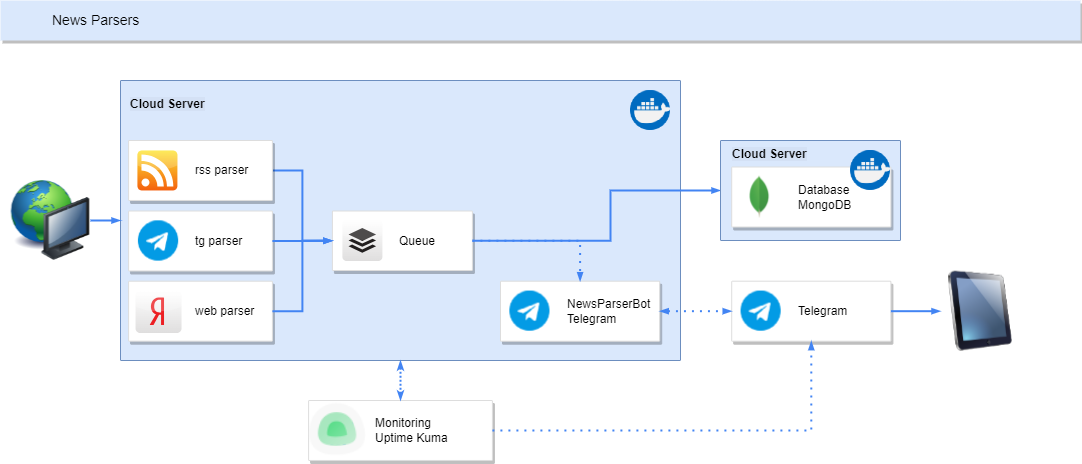
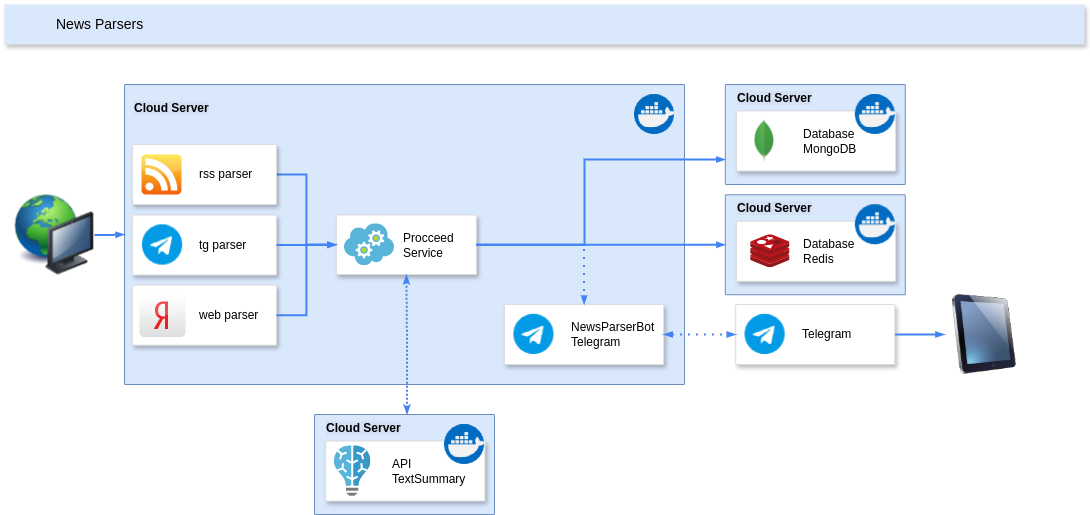
add pages for sub projects and update some views

Changed region(s): [[0.0, 0.1509, 0.854, 1.0], [0.0, 0.0, 1.0, 0.0905], [0.8235, 0.5733, 0.9455, 0.7543]]

diff --git a/app/templates/trade4me.html b/app/templates/trade4me.html
@@ -72,56 +72,53 @@ Read about project, maybe pick up a tip or two. Nothing too fancy.">
         </div>
     </div>
 </div>
-<!-- <div class="section section-sm bg-gray-100">
-    <div class="container">
-        <div class="row justify-content-center">
-            <div class="col-12 col-lg-12 text-center">
-                <h2 class="display-3 mb-4">Global Macro level</h2>
-            </div>
-        </div>
-        <div class="row justify-content-center mt-6">
-            <div class="row justify-content-center">
-            </div>
-        </div>
-    </div>
-</div>
-<div class="section section-sm bg-primary-app">
-    <div class="container">
-        <div class="row justify-content-center">
-            <div class="col-12 col-lg-12 text-center">
-                <h2 class="display-3 mb-4">Company level</h2>
-            </div>
-        </div>
-        <div class="row justify-content-center mt-6">
-            <div class="row justify-content-center">
-            </div>
-        </div>
-    </div>
-</div> -->
 <div class="section section-sm bg-gray-200">
     <div class="container">
-        <div class="row align-items-center justify-content-around">
-            <div class="row justify-content-center">
-                <div class="col-12 col-lg-12 text-center mb-3">
-                    <h2 class="display-3 mb-3"> Daily-trading level </h2>
-                    <p class="lead"></p>
+        <div class="row justify-content-center">
+            <div class="col-12 col-lg-12 text-center mb-3">
+                <h2 class="display-3 mb-3"> Daily-trading level </h2>
+                <p class="lead"></p>
+            </div>
+        
+            <div class="container">
+                <div class="row align-items-center justify-content-around">
+                    <div class="col-md-6 text-center text-md-left mb-3">
+                        <h4 class="mb-3">News Parser 
+                            <a href="https://github.com/whoknowswhocares/NewsParser" target="_blank" aria-label="github social link" class="icon-github me-3">
+                                <span class="fab fa-github"></span>
+                            </a>
+                        </h4>
+                        <p> Daily News for intraday trading - collected info for fast decision-making. 
+                            From various source get text info, store it, then using ML get summary and sentiment analysis.
+                            Based on user preferences sort all news and send as telegram notification only top of the list.
+                        </p>
+                    </div>
+                    <div class="col-md-6 mb-3">
+                        <div class="card-body border-gray-300">
+                            <img src="../static/assets/images/trade4me/Architecture-NewsParser_dark.png" class="card-img-top zoomable" alt="News Parser scheme">
+                        </div>
+                    </div>
                 </div>
             </div>
-            <!-- <div class="col-md-12 col-xl-12 text-center text-md-left"> -->
-            <div class="col-md-6 text-center text-md-left mb-3">
-                <h4 class="mb-3">News Parser 
-                    <a href="https://github.com/whoknowswhocares/NewsParser" target="_blank" aria-label="github social link" class="icon-github me-3">
-                        <span class="fab fa-github"></span>
-                    </a>
-                </h4>
-                <p> Daily News for intraday trading - collected info for fast decision-making. 
-                    From various source get text info, store it, then using ML get summary and sentiment analysis.
-                    Based on user preferences sort all news and send as telegram notification only top of the list.
-                </p>
-            </div>
-            <div class="col-md-6 mb-3">
-                <div class="card-body border-gray-300">
-                    <img src="../static/assets/images/trade4me/Architecture-NewsParser_dark.png" class="card-img-top" alt="News Parser scheme">
+            <div class="container">
+                <div class="row align-items-center justify-content-around">
+                    <div class="col-md-6 text-center text-md-left mb-3">
+                        <h4 class="mb-3">
+                            <a href="{{ url_for('main.textsummary') }}">TextSummary</a>
+                            <a href="https://github.com/WhoKnowsWhoCares/Huggingface_TextSummary" target="_blank" aria-label="github social link" class="icon-github me-3">
+                                <span class="fab fa-github"></span>
+                            </a>
+                        </h4>
+                        <p> Dedicated service for Summarization and Sentiment of the text. For it I use dockerized FastAPI server with simple Gradio interface.
+                            Additionaly there are lazy loading for ML models to release resources and verification to prevent bots from constantly use this service.
+                            API available through base authentication.
+                        </p>
+                    </div>
+                    <div class="col-md-6 mb-3">
+                        <div class="card-body border-gray-300">
+                            <img src="../static/assets/images/trade4me/textsummary.png" class="card-img-top rounded zoomable" alt="Text Summary interface">
+                        </div>
+                    </div>
                 </div>
             </div>
         </div>

diff --git a/app/templates/components/_header.html b/app/templates/components/_header.html
@@ -38,10 +38,11 @@
                             Projects
                             <span class="fas fa-angle-down nav-link-arrow ms-1"></span>
                         </a>
-                        <div class="dropdown-menu dropdown-megamenu-lg" aria-labelledby="componentsDropdown">
-                            <div class="row g-0">
-                                <div class="col ps-0 py-3">
-                                    <ul class="list-style-none">
+                        <div class="dropdown-menu dropdown-megamenu-sm px-0 p-lg-4" aria-labelledby="componentsDropdown">
+                            <div class="row">
+                                <div class="col-6">
+                                    <h6 class="d-block mb-3 text-primary">Global</h6>
+                                    <ul class="list-style-none mb-0">
                                         <li class="mb-2 megamenu-item">
                                             <a class="dropdown-item" href="{{ url_for('main.ihome') }}">iHome</a>
                                         </li>
@@ -51,6 +52,20 @@
                                         <li class="mb-2 megamenu-item">
                                             <a class="dropdown-item" href="{{ url_for('main.trade4me') }}">Trade4Me</a>
                                         </li>
+                                    </ul>
+                                </div>
+                                <div class="col-6">
+                                    <h6 class="d-block mb-3 text-primary">Sub</h6>
+                                    <ul class="list-style-none mb-0">
+                                        <!-- <li class="mb-2 megamenu-item">
+                                            <a class="dropdown-item" href="{{ url_for('main.newsparser') }}">NewsParser</a>
+                                        </li> -->
+                                        <li class="mb-2 megamenu-item">
+                                            <a class="dropdown-item" href="{{ url_for('main.textsummary') }}">TextSummary</a>
+                                        </li>
+                                        <!-- <li class="mb-2 megamenu-item">
+                                            <a class="dropdown-item" href="{{ url_for('main.mltoolsbot') }}">MLToolsBot</a>
+                                        </li> -->
                                     </ul>
                                 </div>           
                             </div>                 

diff --git a/app/templates/components/_scripts.html b/app/templates/components/_scripts.html
@@ -2,11 +2,11 @@
 <script src="/static/assets/js/pixel.js"></script>
 <script src="/static/assets/js/vivus.min.js"></script> <!-- загрузка предстраницы -->
 
-<script async src="/static/assets/js/bootstrap.min.js"></script> <!-- верхняя панель -->
-<script async src="/static/assets/js/headroom.min.js"></script> <!-- выпадающцй список -->
-<script async src="/static/assets/js/smooth-scroll.polyfills.min.js"></script>
-<script async src="/static/assets/js/util.js"></script> <!--исчезновение формы -->
-<script async src="/static/assets/js/other.js"></script>
+<script src="/static/assets/js/bootstrap.min.js"></script> <!-- верхняя панель -->
+<script src="/static/assets/js/headroom.min.js"></script> <!-- выпадающцй список -->
+<script src="/static/assets/js/smooth-scroll.polyfills.min.js"></script>
+<script src="/static/assets/js/util.js"></script> <!--исчезновение формы -->
+<script src="/static/assets/js/other.js"></script>
 
 <script type="text/javascript">var submitted=false;</script>
 <script type="text/javascript">
@@ -20,7 +20,3 @@
       $('#flashed-messages').fadeOut('slow');
   }, 1300);
 </script>
-<!-- <script type="text/javascript">
-    var currentPage = location.pathname.split('/').pop() || 'home';
-    document.getElementById('pageTitle').innerHTML = currentPage;
-</script> -->

diff --git a/app/templates/textsummary.html b/app/templates/textsummary.html
@@ -1,9 +1,9 @@
 {% extends "components/_blank.html" %}
 
 {% block page_content %}
-<iframe frameborder='0'
-    style='position: absolute; background: transparent; width: 100%; height:100%; 
-    padding-top: 7rem; padding-bottom: 3rem;' 
-    src="{{ iframe }}">
-</iframe>
+    <iframe frameborder='0'
+        style='position: absolute; background: transparent; width: 100%; height:100%; 
+        padding-top: 7rem; padding-bottom: 3rem;' 
+        src="{{ iframe }}">
+    </iframe>
 {% endblock %}

diff --git a/app/templates/components/_head.html b/app/templates/components/_head.html
@@ -49,5 +49,3 @@
 <noscript><link rel="stylesheet" href="/static/css/solid.min.css"></noscript>
 <link rel="preload" href="/static/css/other.css" as="style" onload="this.onload=null;this.rel='stylesheet'">
 <noscript><link rel="stylesheet" href="/static/css/other.css"></noscript>
-
-<!-- <title id="pageTitle"></title> -->

diff --git a/app/templates/mltoolsbot.html b/app/templates/mltoolsbot.html
@@ -1,0 +1,5 @@
+{% extends "components/_blank.html" %}
+
+{% block page_content %}
+
+{% endblock %}

diff --git a/app/templates/newsparser.html b/app/templates/newsparser.html
@@ -1,0 +1,5 @@
+{% extends "components/_blank.html" %}
+
+{% block page_content %}
+
+{% endblock %}

diff --git a/app/main/views.py b/app/main/views.py
@@ -1,11 +1,24 @@
-from flask import redirect, render_template, url_for, request, send_from_directory
-from flask_login import login_required
-from .forms import MessageForm
-from . import main
 import os
 import telebot
+import requests
+
+from flask import redirect, render_template, url_for, request, send_from_directory
+from flask_login import login_required
+from loguru import logger
+
+from .forms import MessageForm
+from . import main
+
 
 bot = telebot.TeleBot(os.getenv("TG_API_KEY", ""))
+
+
+def if_url_exist(url):
+    try:
+        return requests.head(url).status_code == requests.codes.ok
+    except Exception as e:
+        logger.info(f"Error while checking if url exist {e}")
+        return False
 
 
 @main.route("/robots.txt")
@@ -66,4 +79,18 @@ def about():
 
 @main.route("/textsummary", methods=["GET", "POST"])
 def textsummary():
-    return render_template("textsummary.html", iframe="http://localhost:8000")
+    textsummary_service = "http://10.0.0.6:6001"
+    if if_url_exist(textsummary_service):
+        return render_template("textsummary.html", iframe=textsummary_service)
+    else:
+        return render_template("/errors/error.html", message="Service is not available")
+
+
+@main.route("/newsparser")
+def newsparser():
+    return render_template("newsparser.html")
+
+
+@main.route("/mltoolsbot")
+def mltoolsbot():
+    return render_template("mltoolsbot.html")

diff --git a/app/main/__init__.py b/app/main/__init__.py
@@ -1,6 +1,6 @@
 from flask import Blueprint
 
-main = Blueprint('main', __name__)
+main = Blueprint("main", __name__)
 
 from . import views, errors
 from app.models import UserRole
